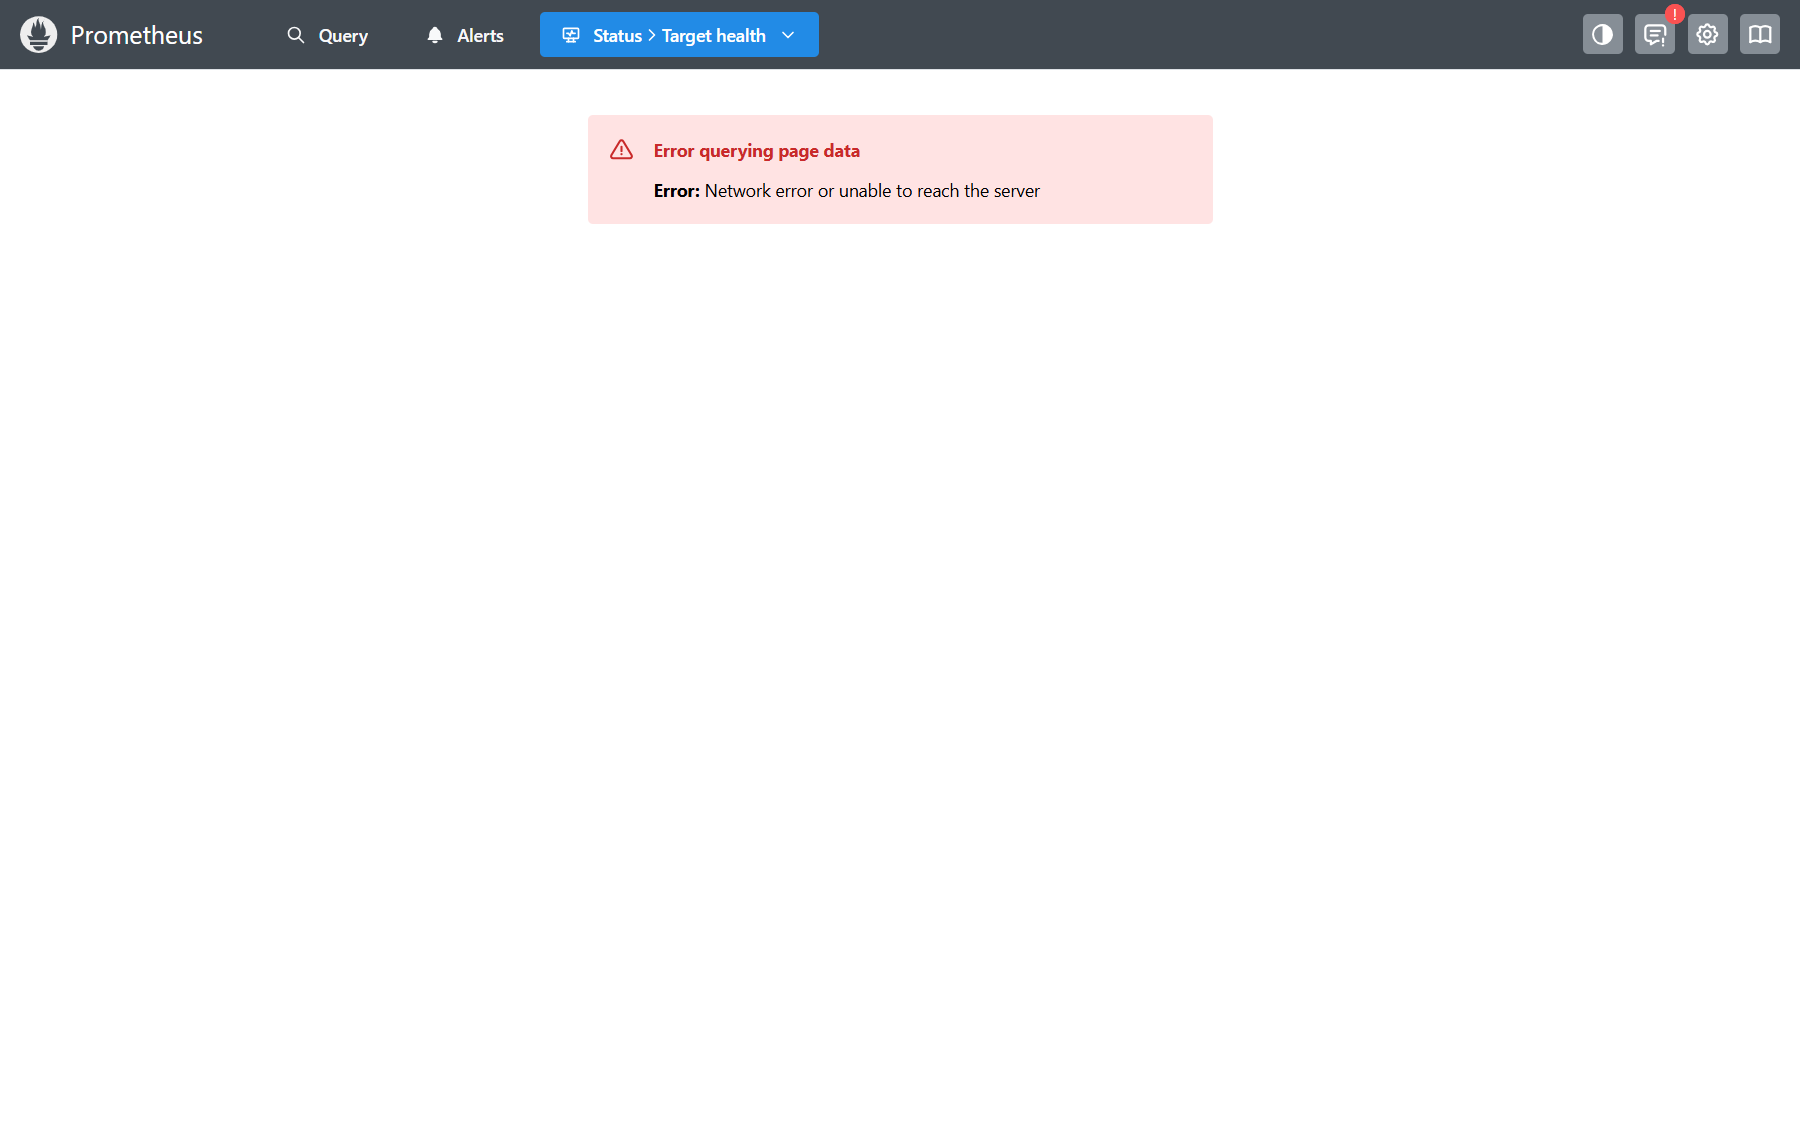
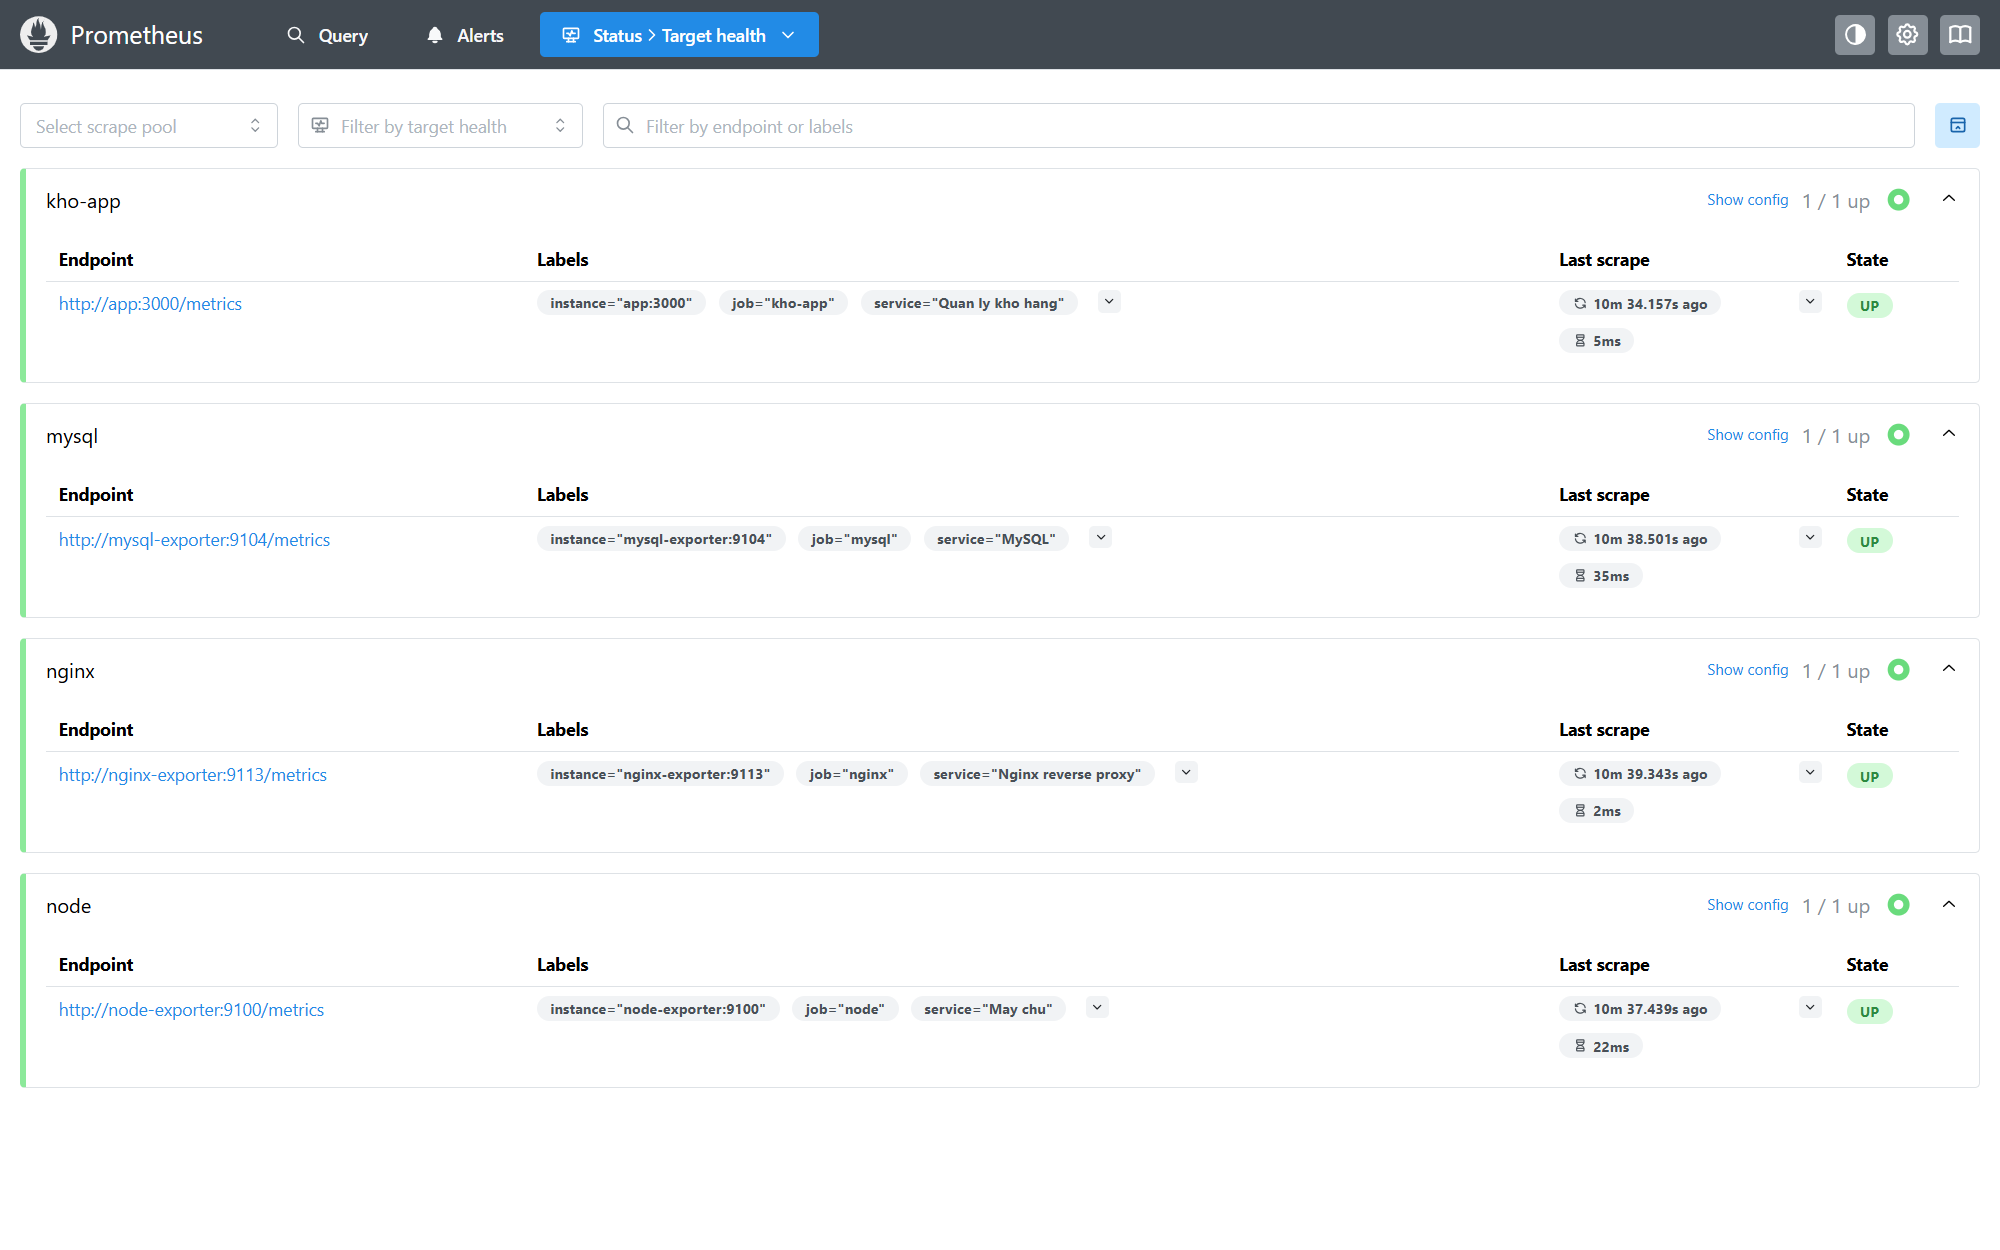
fix: dem truy van DB that o tang du lieu va ho tro WebSocket cho Grafana qua Nginx

diff --git a/src/config/db.js b/src/config/db.js
@@ -2,6 +2,7 @@
 
 const mysql = require('mysql2/promise');
 const env = require('./env');
+const metrics = require('../middleware/metrics');
 
 const pool = mysql.createPool({
   host: env.db.host,
@@ -18,8 +19,14 @@ const pool = mysql.createPool({
 });
 
 async function query(sql, params = []) {
-  const [rows] = await pool.execute(sql, params);
-  return rows;
+  metrics.trackDbQuery();
+  try {
+    const [rows] = await pool.execute(sql, params);
+    return rows;
+  } catch (err) {
+    metrics.trackDbError();
+    throw err;
+  }
 }
 
 async function one(sql, params = []) {
@@ -31,11 +38,13 @@ async function transaction(handler) {
   const conn = await pool.getConnection();
   try {
     await conn.beginTransaction();
+    metrics.trackDbQuery();
     const result = await handler(conn);
     await conn.commit();
     return result;
   } catch (err) {
     await conn.rollback();
+    metrics.trackDbError();
     throw err;
   } finally {
     conn.release();

diff --git a/src/services/documents.js b/src/services/documents.js
@@ -1,6 +1,7 @@
 'use strict';
 
 const db = require('../config/db');
+const metrics = require('../middleware/metrics');
 
 const PREFIX = { IN: 'NH', OUT: 'XH', ADJUST: 'ADJ' };
 
@@ -122,10 +123,12 @@ async function createDocument({ type, supplierId, note, lines, userId }) {
       const price = item.unitPrice !== null ? item.unitPrice : product.cost_price;
       const signed = type === 'OUT' ? -item.quantity : item.quantity;
 
+      metrics.trackDbQuery();
       await conn.execute(
         'INSERT INTO stock_movements (document_id, product_id, quantity, unit_price) VALUES (?, ?, ?, ?)',
         [documentId, item.productId, signed, price]
       );
+      metrics.trackDbQuery();
       await conn.execute(
         'UPDATE stocks SET quantity = GREATEST(0, quantity + ?) WHERE product_id = ?',
         [signed, item.productId]
